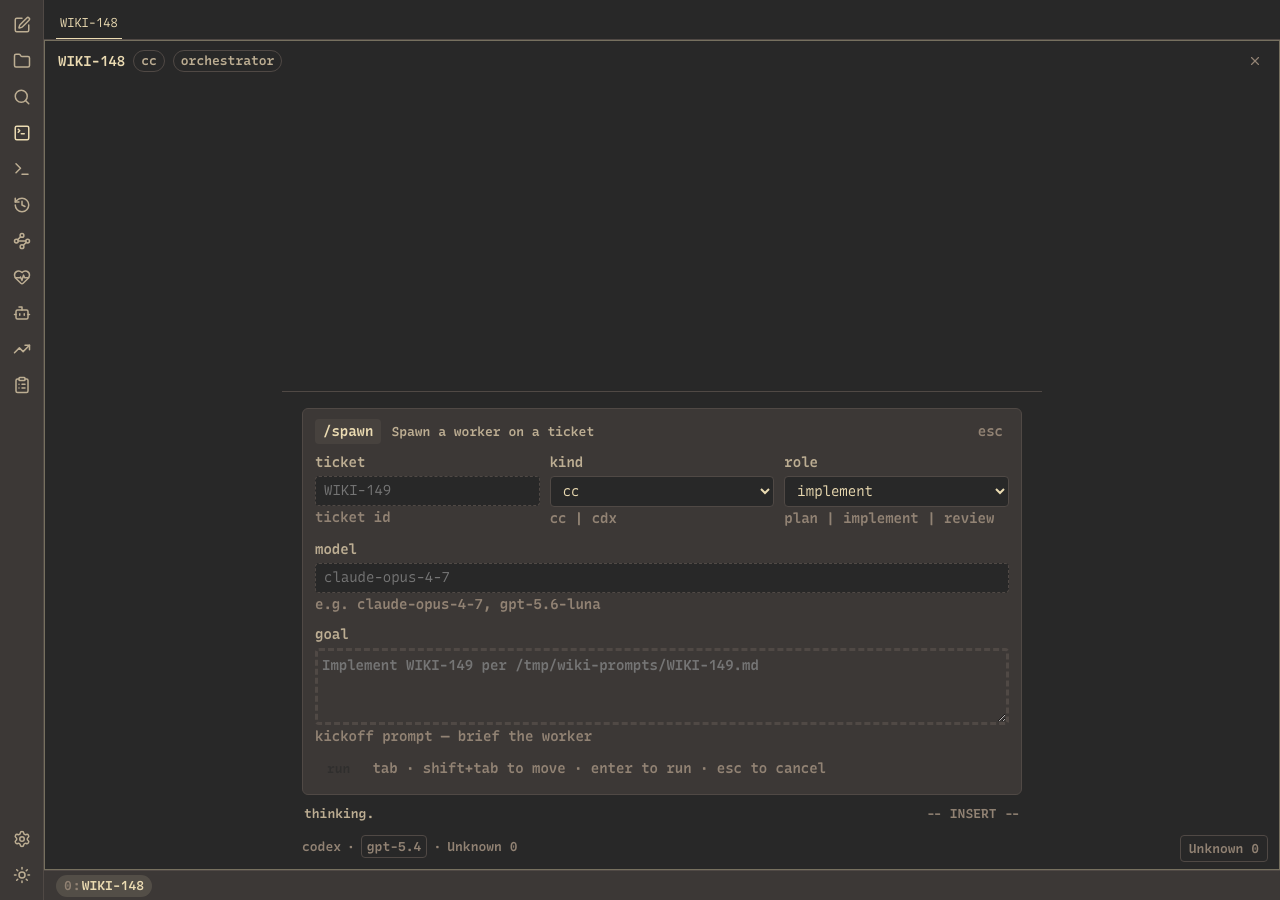
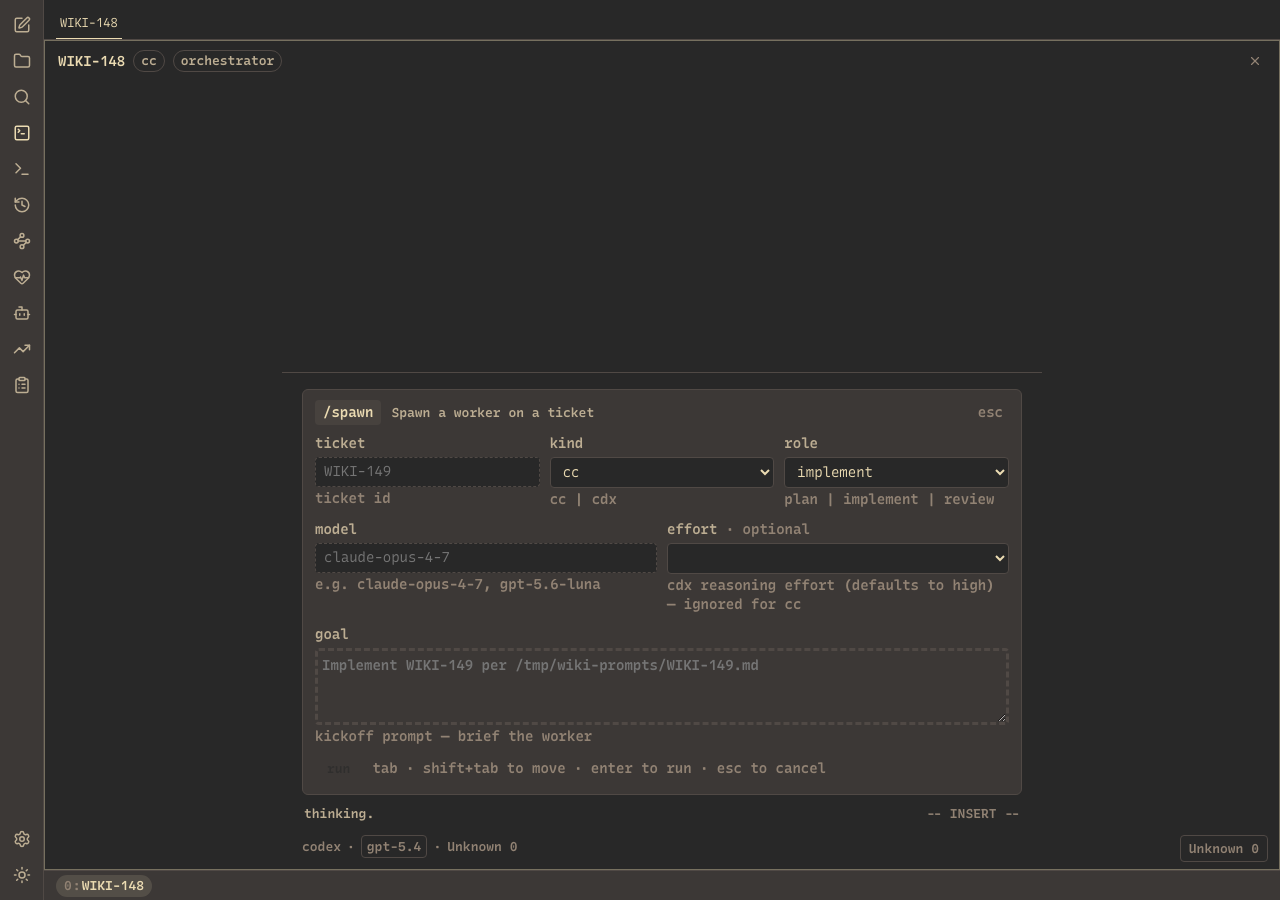
WIKI-148 round 2: fix broken slash dispatches, add ARIA + polish
Round 1 review shipped 3 HIGH + 2 MEDIUM + 2 LOW findings. This round:

- /spawn adds `effort` arg (defaults to `high` for cdx, forced null for cc)
  so codex worker spawns clear backend validation.
- /spawn provisions the worktree server-side via new
  `POST /api/composer/provision-worktree` (git worktree add -B <branch>
  <path> origin/main). Fresh-ticket spawns no longer point at a
  non-existent path.
- /archive passes selected outcome through `archiveAgent`. The success
  toast now reflects the value that actually reached the backend.
- Cancelling a populated chip re-serializes filled args into the raw
  fallback text (\/spawn WIKI-149 cc claude-opus-4-7 "goal").
- Textarea acts as an ARIA combobox — role, aria-expanded,
  aria-controls, and aria-activedescendant track the open slash menu.
  Menu items get stable ids.
- Outside pointer-down dismisses the menu without discarding raw text.
- Filter switched from substring to subsequence fuzzy ranking
  (`spa` -> `/spawn` first).

Playwright test covers cdx-effort default, cc-effort null, provision
call, archive outcome flow, ARIA transitions, populated-cancel round
trip, outside-click, and fuzzy ordering.

diff --git a/frontend/src/composer-commands.ts b/frontend/src/composer-commands.ts
@@ -3,6 +3,8 @@ import {
   replaceAgent,
   sendAgentMessage,
   spawnAgentWorker,
+  type ArchiveOutcome,
+  type SpawnWorkerEffort,
   type SpawnWorkerKind,
   type SpawnWorkerRole,
 } from "./api";
@@ -39,6 +41,22 @@ export type CommandResult = {
 const KINDS = ["cc", "cdx"] as const;
 const ROLES = ["plan", "implement", "review"] as const;
 const OUTCOMES = ["merged", "closed", "abandoned"] as const;
+const EFFORTS = ["low", "medium", "high"] as const;
+
+async function provisionWorktree(ticket: string): Promise<string> {
+  const response = await fetch("/api/composer/provision-worktree", {
+    method: "POST",
+    headers: { "Content-Type": "application/json" },
+    body: JSON.stringify({ ticket }),
+  });
+  const body = (await response.json().catch(() => null)) as
+    | { workdir?: string; detail?: string }
+    | null;
+  if (!response.ok || !body?.workdir) {
+    throw new Error(body?.detail ?? `Provision failed (${response.status})`);
+  }
+  return body.workdir;
+}
 
 export const COMMANDS: readonly ComposerCommand[] = [
   {
@@ -106,6 +124,13 @@ export const COMMANDS: readonly ComposerCommand[] = [
         placeholder: "claude-opus-4-7",
       },
       {
+        name: "effort",
+        type: "enum",
+        required: false,
+        hint: "cdx reasoning effort (defaults to high) — ignored for cc",
+        options: EFFORTS,
+      },
+      {
         name: "goal",
         type: "long-text",
         required: true,
@@ -119,13 +144,16 @@ export const COMMANDS: readonly ComposerCommand[] = [
       const role = values["role"].trim() as SpawnWorkerRole;
       const model = values["model"].trim();
       const prompt = values["goal"].trim();
-      const workdir = `.claude/worktrees/${ticket.toLowerCase()}`;
+      const effortRaw = (values["effort"]?.trim() || "") as SpawnWorkerEffort | "";
+      const effort: SpawnWorkerEffort | null =
+        kind === "cdx" ? (effortRaw || "high") : null;
+      const workdir = await provisionWorktree(ticket);
       const result = await spawnAgentWorker({
         ticket,
         kind,
         role,
         model,
-        effort: null,
+        effort,
         workdir,
         orch: context.ticket,
         prompt,
@@ -203,8 +231,8 @@ export const COMMANDS: readonly ComposerCommand[] = [
     ],
     async dispatch(values) {
       const target = values["agent-id"].trim();
-      const outcome = values["outcome"]?.trim() || null;
-      const result = await archiveAgent(target);
+      const outcome = (values["outcome"]?.trim() || null) as ArchiveOutcome | null;
+      const result = await archiveAgent(target, { outcome });
       return {
         ok: true,
         summary: outcome ? `archived ${target} (${outcome})` : `archived ${target}`,
@@ -262,9 +290,33 @@ export function commandByName(name: string): ComposerCommand | undefined {
 export function filterCommands(partial: string): ComposerCommand[] {
   const query = partial.toLowerCase();
   if (!query) return [...COMMANDS];
-  const starts = COMMANDS.filter((command) => command.name.startsWith(query));
-  if (starts.length > 0) return starts;
-  return COMMANDS.filter((command) => command.name.includes(query));
+  const scored: Array<{ command: ComposerCommand; score: number }> = [];
+  for (const command of COMMANDS) {
+    const score = fuzzyScore(command.name, query);
+    if (score !== null) scored.push({ command, score });
+  }
+  scored.sort((a, b) => b.score - a.score);
+  return scored.map((entry) => entry.command);
+}
+
+function fuzzyScore(name: string, query: string): number | null {
+  if (query.length === 0) return 0;
+  let score = 0;
+  let cursor = 0;
+  let lastMatch = -1;
+  for (const ch of query) {
+    const idx = name.indexOf(ch, cursor);
+    if (idx === -1) return null;
+    if (idx === 0) score += 20;
+    if (idx === lastMatch + 1) score += 5;
+    if (idx === cursor) score += 3;
+    score += 1;
+    lastMatch = idx;
+    cursor = idx + 1;
+  }
+  if (name.startsWith(query)) score += 100;
+  score -= (name.length - query.length) * 0.1;
+  return score;
 }
 
 export function initialValues(command: ComposerCommand): Record<string, string> {
@@ -278,4 +330,21 @@ export function missingRequired(
   values: Record<string, string>,
 ): CommandArg[] {
   return command.args.filter((arg) => arg.required && !(values[arg.name] ?? "").trim());
+}
+
+export function serializeCommand(
+  command: ComposerCommand,
+  values: Record<string, string>,
+): string {
+  const parts = [`\\/${command.name}`];
+  for (const arg of command.args) {
+    const raw = (values[arg.name] ?? "").trim();
+    if (!raw) continue;
+    parts.push(needsQuoting(raw) ? JSON.stringify(raw) : raw);
+  }
+  return parts.join(" ") + " ";
+}
+
+function needsQuoting(raw: string): boolean {
+  return /[\s"\\]/.test(raw);
 }

diff --git a/frontend/src/session.tsx b/frontend/src/session.tsx
@@ -71,9 +71,15 @@ import {
   filterCommands,
   initialValues,
   missingRequired,
+  serializeCommand,
   type ComposerCommand,
 } from "./composer-commands";
-import { CommandForm, SlashMenu } from "./composer-slash-menu";
+import {
+  CommandForm,
+  SLASH_MENU_ID,
+  SlashMenu,
+  slashMenuOptionId,
+} from "./composer-slash-menu";
 import { externalLinkProps } from "./external-links";
 import {
   GhPreviewCard,
@@ -2664,6 +2670,23 @@ function MessageComposer({
       ? skills.filter((s) => s.name.startsWith(trigger.partial)).slice(0, 8)
       : [];
 
+  const menuOpen = commandMatches.length > 0 || menuItems.length > 0;
+  useEffect(() => {
+    if (!menuOpen) return;
+    function onPointerDown(event: PointerEvent) {
+      const target = event.target as Node | null;
+      if (!target) return;
+      if (inputRef.current && inputRef.current.contains(target)) return;
+      const menuEl = document.getElementById(SLASH_MENU_ID);
+      if (menuEl && menuEl.contains(target)) return;
+      const skillMenu = document.querySelector(".session-skill-menu");
+      if (skillMenu && skillMenu.contains(target)) return;
+      setMenuDismissed(true);
+    }
+    window.addEventListener("pointerdown", onPointerDown);
+    return () => window.removeEventListener("pointerdown", onPointerDown);
+  }, [menuOpen]);
+
   function rememberSelection(start: number, end = start, caret = start) {
     selectionRef.current = { start, end };
     setCaretPos(caret);
@@ -2713,12 +2736,13 @@ function MessageComposer({
 
   function cancelCommand({ restoreText = true }: { restoreText?: boolean } = {}) {
     const command = activeCommand;
+    const values = commandValues;
     setActiveCommand(null);
     setCommandValues({});
     setCommandBusy(false);
     setCommandError(null);
     if (restoreText && command) {
-      const fallback = `\\/${command.name} `;
+      const fallback = serializeCommand(command, values);
       setText(fallback);
       requestAnimationFrame(() => {
         const pos = fallback.length;
@@ -3326,6 +3350,15 @@ function MessageComposer({
           ref={inputRef}
           rows={2}
           value={text}
+          role="combobox"
+          aria-expanded={commandMatches.length > 0}
+          aria-controls={commandMatches.length > 0 ? SLASH_MENU_ID : undefined}
+          aria-activedescendant={
+            commandMatches.length > 0
+              ? slashMenuOptionId(Math.min(menuIndex, commandMatches.length - 1))
+              : undefined
+          }
+          aria-autocomplete="list"
           onFocus={(event) => {
             if (vimMode !== "insert") enterInsert(event.currentTarget.selectionEnd ?? text.length);
             else captureSelection(event.currentTarget);

diff --git a/frontend/src/composer-slash-menu.tsx b/frontend/src/composer-slash-menu.tsx
@@ -6,6 +6,10 @@ import {
   type ComposerCommand,
 } from "./composer-commands";
 
+export const SLASH_MENU_ID = "composer-slash-menu";
+export const slashMenuOptionId = (index: number) =>
+  `${SLASH_MENU_ID}-option-${index}`;
+
 export type SlashMenuProps = {
   commands: readonly ComposerCommand[];
   activeIndex: number;
@@ -16,11 +20,17 @@ export type SlashMenuProps = {
 export function SlashMenu({ commands, activeIndex, onSelect, onHover }: SlashMenuProps) {
   if (commands.length === 0) return null;
   return (
-    <div className="composer-slash-menu" role="listbox" aria-label="Slash commands">
+    <div
+      className="composer-slash-menu"
+      id={SLASH_MENU_ID}
+      role="listbox"
+      aria-label="Slash commands"
+    >
       {commands.map((command, index) => (
         <button
           className={`composer-slash-item${index === activeIndex ? " is-active" : ""}`}
           key={command.name}
+          id={slashMenuOptionId(index)}
           role="option"
           aria-selected={index === activeIndex}
           type="button"

diff --git a/frontend/src/api.ts b/frontend/src/api.ts
@@ -371,9 +371,14 @@ export function controlAgent(id: string, action: AgentControlAction) {
   );
 }
 
-export function archiveAgent(id: string) {
+export type ArchiveOutcome = "merged" | "closed" | "abandoned";
+
+export function archiveAgent(id: string, options: { outcome?: ArchiveOutcome | null } = {}) {
+  const body =
+    options.outcome != null ? JSON.stringify({ outcome: options.outcome }) : undefined;
   return request<AgentControlResult>(`/api/agents/${encodeURIComponent(id)}/archive`, {
     method: "POST",
+    body,
   });
 }
 

diff --git a/backend/app/main.py b/backend/app/main.py
@@ -3680,6 +3680,72 @@ class ComposerGateIn(BaseModel):
     expect_sha: str | None = Field(default=None, max_length=64)
 
 
+class ComposerProvisionIn(BaseModel):
+    ticket: str = Field(..., min_length=1, max_length=80)
+
+
+@app.post("/api/composer/provision-worktree")
+def composer_provision_worktree(body: ComposerProvisionIn) -> dict[str, object]:
+    """Ensure `.claude/worktrees/<ticket-lower>` exists as a git worktree off origin/main.
+
+    Backs the composer `/spawn` slash command. Idempotent: existing worktrees
+    are returned as-is; missing paths get `git worktree add -B <branch> <path>
+    origin/main`. Fetches origin/main first so the worktree tracks fresh trunk.
+    """
+
+    ticket = body.ticket.strip()
+    if not ticket or not SPAWN_TICKET_PATTERN.fullmatch(ticket):
+        raise HTTPException(
+            status_code=400,
+            detail="Ticket must be uppercase letters, numbers, or dashes",
+        )
+    branch = ticket.lower()
+    workdir = (ROOT_DIR / ".claude" / "worktrees" / branch).resolve()
+    if workdir.exists():
+        if not workdir.is_dir():
+            raise HTTPException(
+                status_code=409,
+                detail=f"{workdir} exists but is not a directory",
+            )
+        return {"workdir": str(workdir), "provisioned": False}
+    workdir.parent.mkdir(parents=True, exist_ok=True)
+    try:
+        subprocess.run(
+            ["git", "-C", str(ROOT_DIR), "fetch", "origin", "main"],
+            capture_output=True,
+            text=True,
+            timeout=30,
+            check=False,
+        )
+        result = subprocess.run(
+            [
+                "git",
+                "-C",
+                str(ROOT_DIR),
+                "worktree",
+                "add",
+                "-B",
+                branch,
+                str(workdir),
+                "origin/main",
+            ],
+            capture_output=True,
+            text=True,
+            timeout=60,
+        )
+    except OSError as exc:
+        raise HTTPException(
+            status_code=500,
+            detail=f"git worktree add failed: {exc}",
+        ) from exc
+    if result.returncode != 0:
+        raise HTTPException(
+            status_code=502,
+            detail=(result.stderr or result.stdout or "git worktree add failed").strip()[:400],
+        )
+    return {"workdir": str(workdir), "provisioned": True}
+
+
 @app.post("/api/composer/gate")
 def composer_gate(body: ComposerGateIn) -> dict[str, object]:
     """Run `wiki gate <pr> --json` and normalise the verdict.
